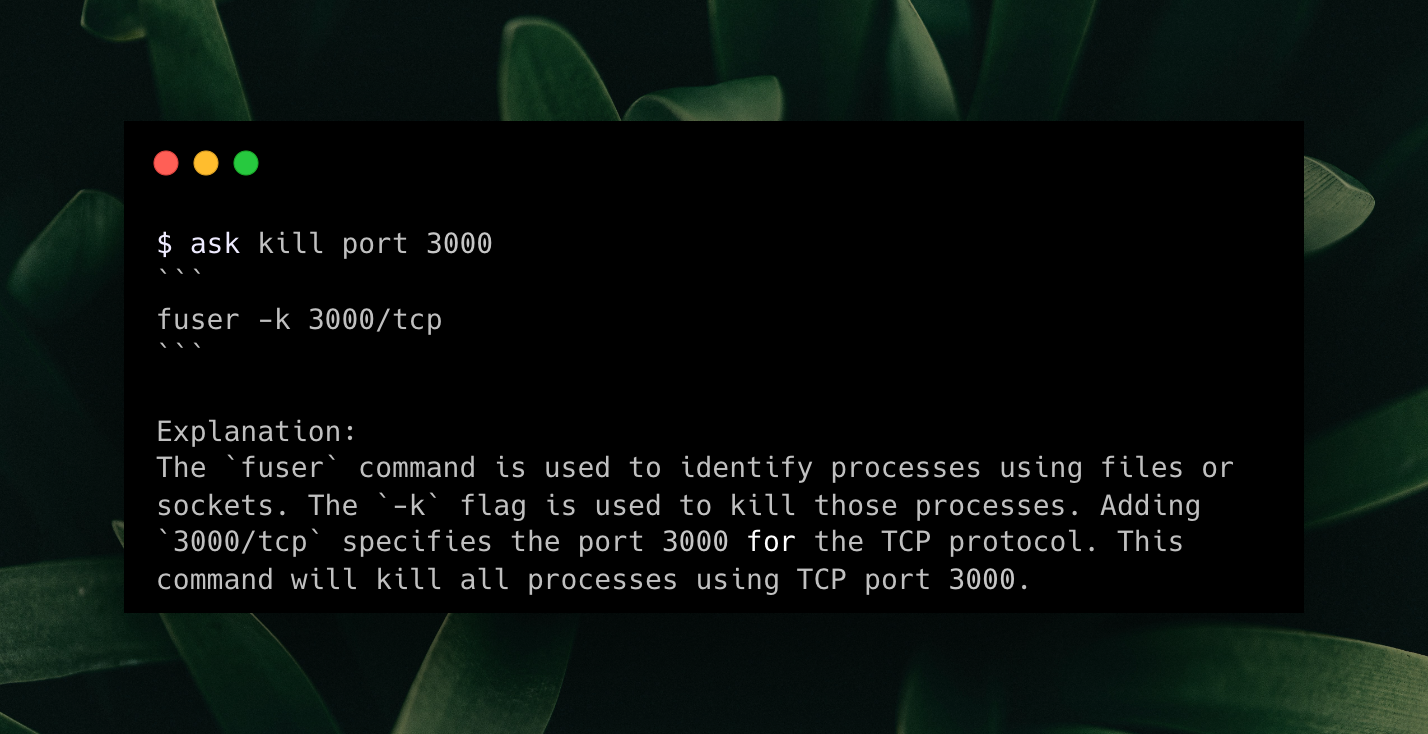
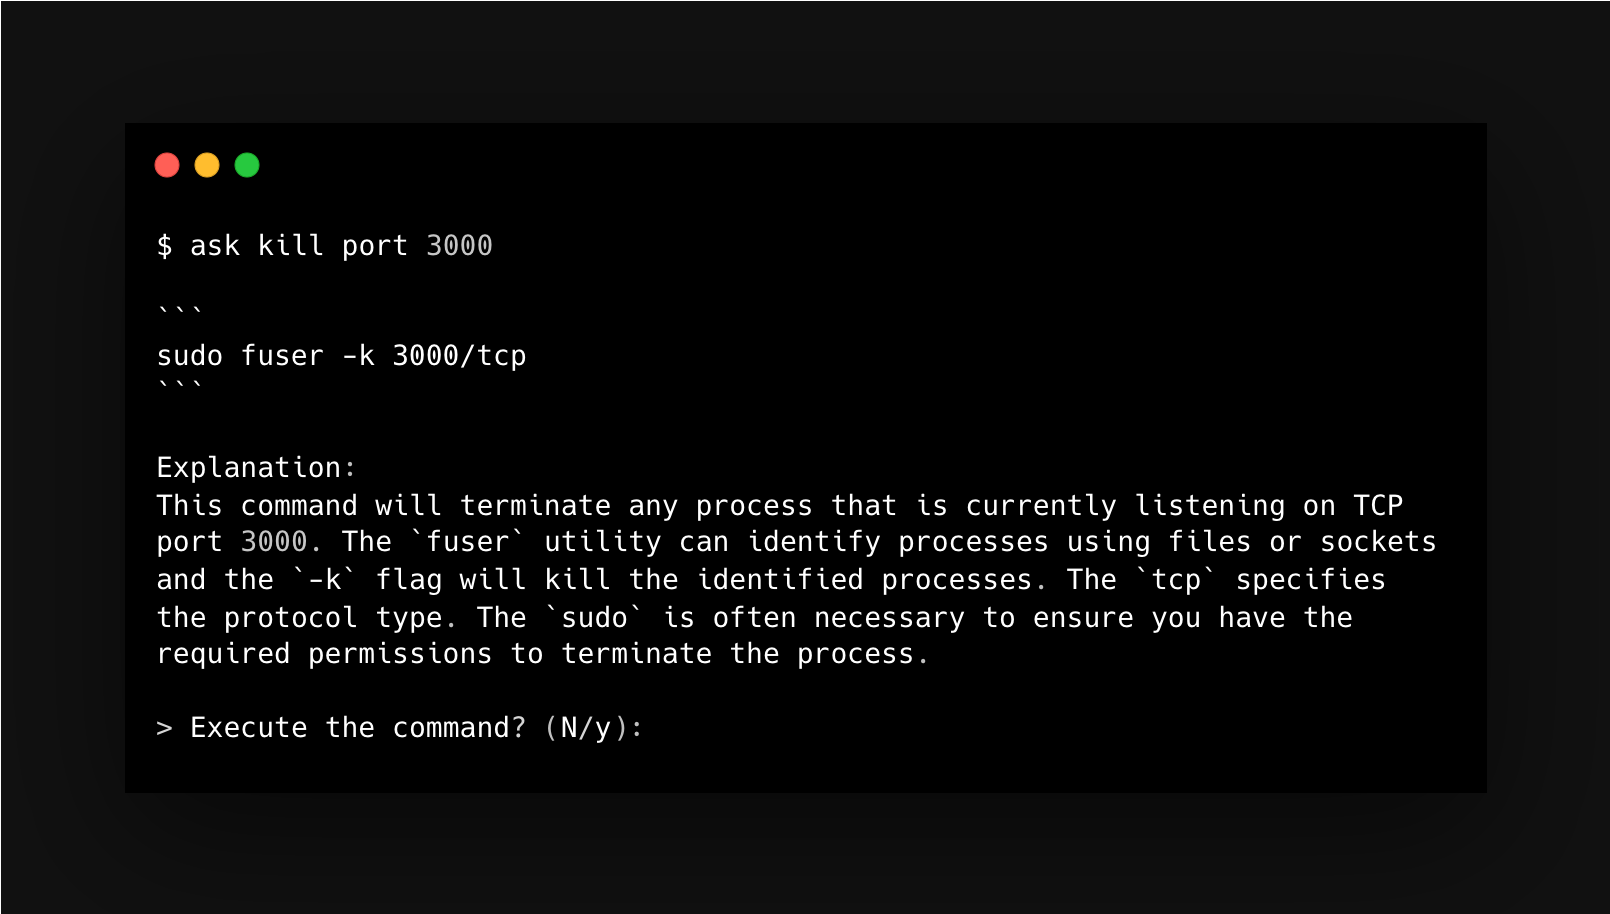
feat: make it possible to execute the command directly from the cli

diff --git a/lfg/cli.py b/lfg/cli.py
@@ -2,9 +2,18 @@
 
 import os
 import sys
+import re
+import signal
+from types import FrameType
 import openai
 from openai import OpenAI
 from openai.types.chat import ChatCompletion
+
+
+def handle_sigint(signum: int, frame: FrameType) -> None:
+    """Signal handler for Ctrl+C (SIGINT)."""
+    print("\nCtrl+C detected. Exiting gracefully...")
+    sys.exit(0)
 
 
 def get_openai_client() -> OpenAI:
@@ -28,16 +37,22 @@ You are a system administrator and elite hacker that knows all about the termina
 """
 
 
-def handle_stream(stream: ChatCompletion) -> None:
+def handle_stream(stream: ChatCompletion) -> str:
     """Processes the output stream from the LLM, printing each response chunk.
 
     Args:
         stream (ChatCompletion): An iterator of chunks representing
         LLM responses.
     """
+    response = []
+
     for chunk in stream:
         if chunk.choices[0].delta.content:
+            response.append(chunk.choices[0].delta.content)
+
             print(chunk.choices[0].delta.content, end="", flush=True)
+
+    return "".join(response)
 
 
 def send_chat_query(query: str, client: OpenAI) -> ChatCompletion:
@@ -71,8 +86,41 @@ def send_chat_query(query: str, client: OpenAI) -> ChatCompletion:
         print(e.response)
 
 
+def extract_command(text: str) -> str:
+    """Extracts the command from the response.
+
+    Args:
+        text (str): The response from the LLM.
+
+    Returns:
+        str: The command extracted from the response.
+    """
+    pattern = r"```\n(.*?)\n```"
+    match = re.search(pattern, text, re.DOTALL)
+
+    if match:
+        command = match.group(1)
+
+        return command
+
+
+def execute_command(command: str) -> None:
+    """Executes the command in the terminal.
+
+    Args:
+        command (str): The command to execute.
+    """
+    query = input("\n\n> Execute the command? (N/y): ")
+    if query.lower() == "y" or query.lower() == "yes":
+        os.system(command)
+    else:
+        print("\nExiting...")
+
+
 def main():
     """Initializes the OpenAI client, and processes the query."""
+
+    signal.signal(signal.SIGINT, handle_sigint)
 
     if len(sys.argv) < 2:
         print("Usage: ask <query>")
@@ -85,7 +133,13 @@ def main():
         client = get_openai_client()
         stream = send_chat_query(query, client)
 
-        handle_stream(stream)
+        response = handle_stream(stream)
+
+        command = extract_command(response)
+
+        if command:
+            execute_command(command)
+
     except ValueError as e:
         print(f"Error: {e}")
 

diff --git a/setup.py b/setup.py
@@ -3,7 +3,7 @@ from setuptools import setup, find_packages
 
 setup(
     name="lfg-llama",
-    version="2.2.3",
+    version="2.3.0",
     description="LFG, It Really Whips the Llama's Ass 🦙🦙🦙🦙",
     long_description=open("README.md").read(),
     long_description_content_type="text/markdown",

diff --git a/README.md b/README.md
@@ -7,13 +7,13 @@
 
 ![Demo](example.png)
 
-## Why?
+## What?
 
-- Firstly, this was created to test Ollama -> Groq
-- I do not like the Github Copilot command-line
+- I do not like the syntax of the Github Copilot command-line
 - Quicker than using Gemini/ChatGPT/Google directly via the browser interface
 - Easier to find what needed without opening man pages
 - NEW: Changing to GPT-4o model which is free
+- NEW: Execute the command directly from this CLI
 
 However, never trust the output entirely.
 
@@ -62,20 +62,22 @@ The `fuser` command identifies processes using files or sockets. The `-k` option
 ose processes. Here, `3000/tcp` specifies the TCP port number 3000. This command effectively kills
 any process currently using port 3000.
 
+> Execute the command? (N/y):
 ```
 
 Change the LLM
 
 ```bash
-$ ask list ec2 pipe json jq get name
+$ ask get pods from all namespaces
 
-aws ec2 describe-instances --query "Reservations[].Instances[].{Name:Tags[?Key=='Name']|[0].Value}"
- --output json | jq -r '.[].Name'
+kubectl get pods --all-namespaces
+
 
 Explanation:
-This command uses the AWS CLI to list EC2 instances and their corresponding 'Name' tag values in JS
-ON format. The `--query` option filters the output to only include the 'Name' tag for each instance
-, and `jq` is used to parse and extract the 'Name' values.%
+The `kubectl get pods --all-namespaces` command lists all the pods across all namespaces in a Kuber
+netes cluster. The `--all-namespaces` flag is used to fetch the pods from every namespace instead of the default namespace.
+
+> Execute the command? (N/y):
 ```
 
 ### Development
